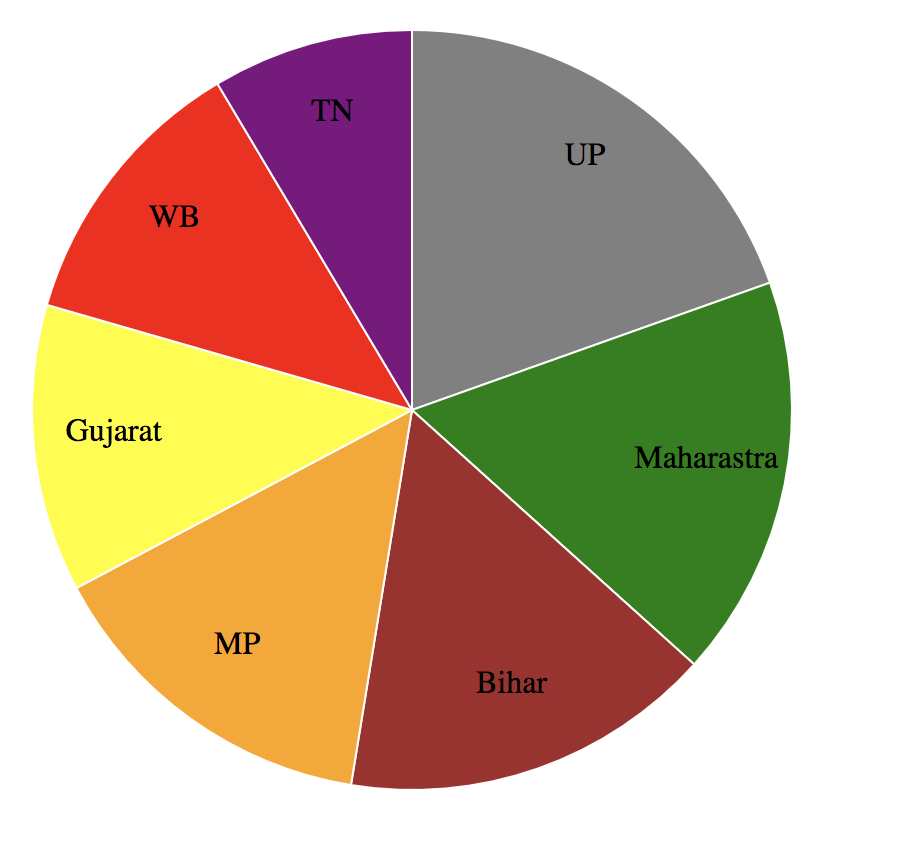
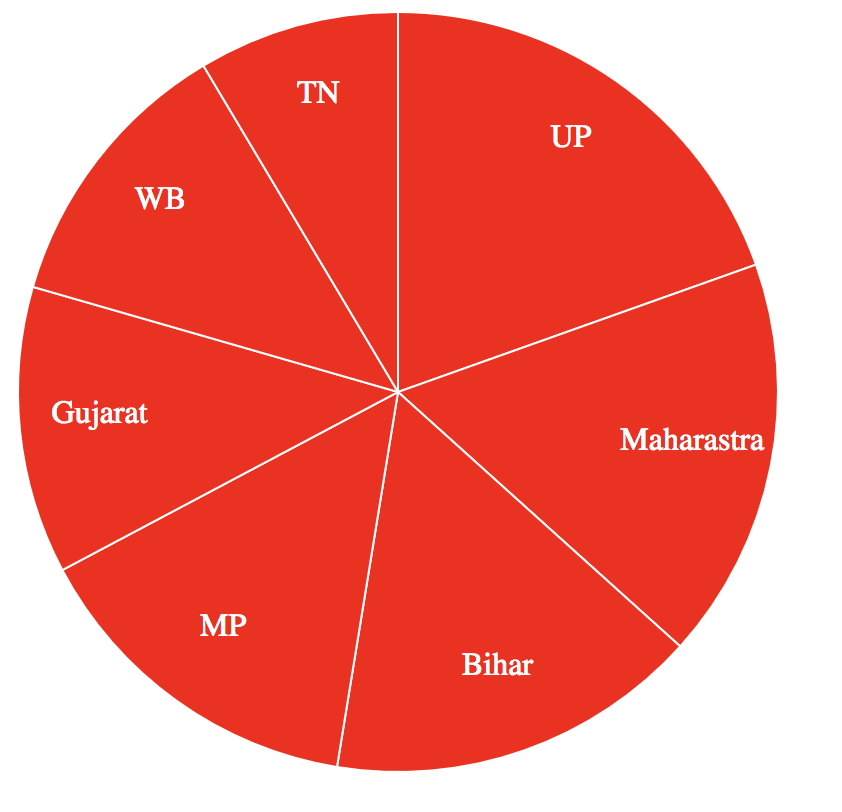
add readme

diff --git a/charts/dyn-pie-chart.html b/charts/dyn-pie-chart.html
@@ -11,7 +11,6 @@
          var width = 400
          var height = 400
          var radius = Math.min(width, height) / 2;
-         var color = ['gray', 'green', 'brown', 'orange', 'yellow', 'red', 'purple']
 
          var path = d3.arc().outerRadius(radius-10).innerRadius(0)
          var svgVal = d3.selectAll("#svg1").append("svg").attr("width",width).attr("height",height)
@@ -19,9 +18,9 @@
          var label = d3.arc().outerRadius(radius).innerRadius(radius-100)
          d3.csv("../files/charts/dyn-pie-data.csv", (data) => {
            var arc = svgVal.selectAll("g").data(pie(data)).enter().append("g").attr("transform", "translate(" + height / 2 + "," + width / 2 + ")")
-           arc.append("path").attr("fill",(d,i)=>color[i]).attr("d",path).attr("stroke","white")
+           arc.append("path").attr("fill","red").attr("d",path).attr("stroke","white")
            arc.append("text").attr("transform", (d) => "translate(" + label.centroid(d) + ")").text((d) => d.data.states)
-           .attr("text-anchor","middle")
+           .attr("text-anchor","middle").attr("fill","white")
          })
       </script>
    </body>
